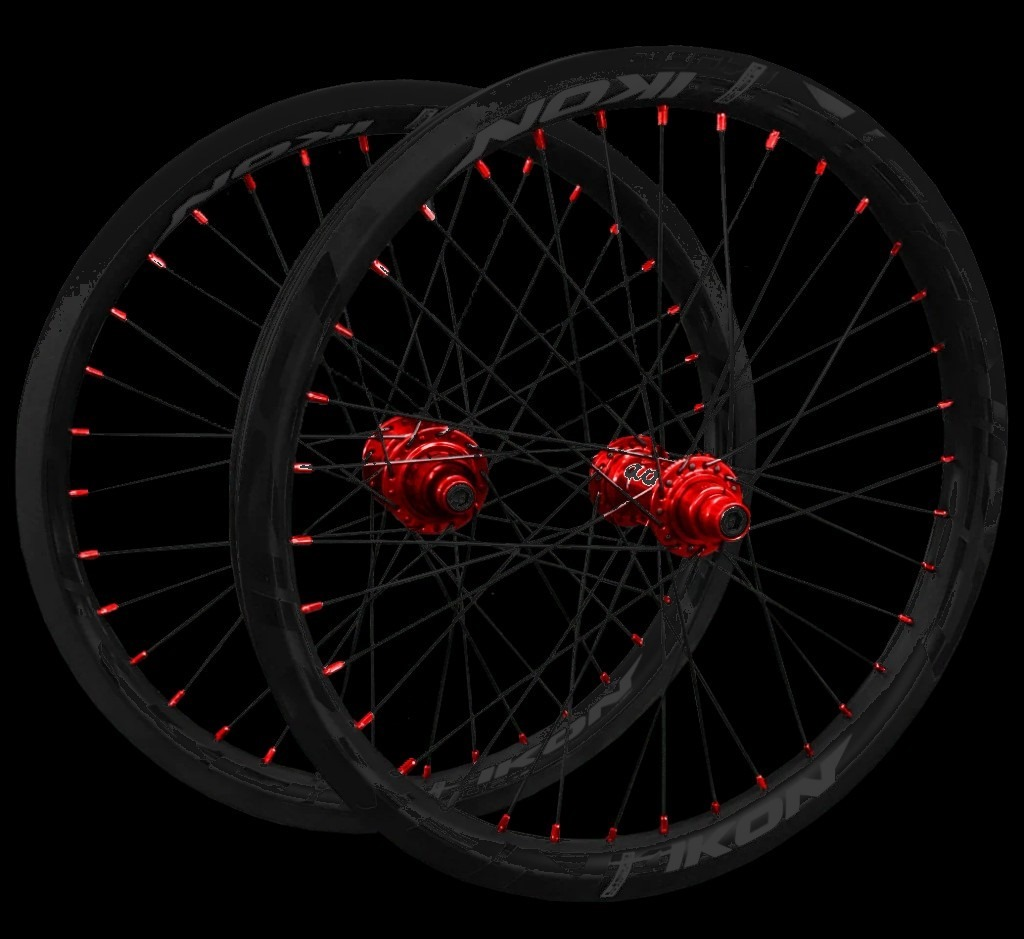
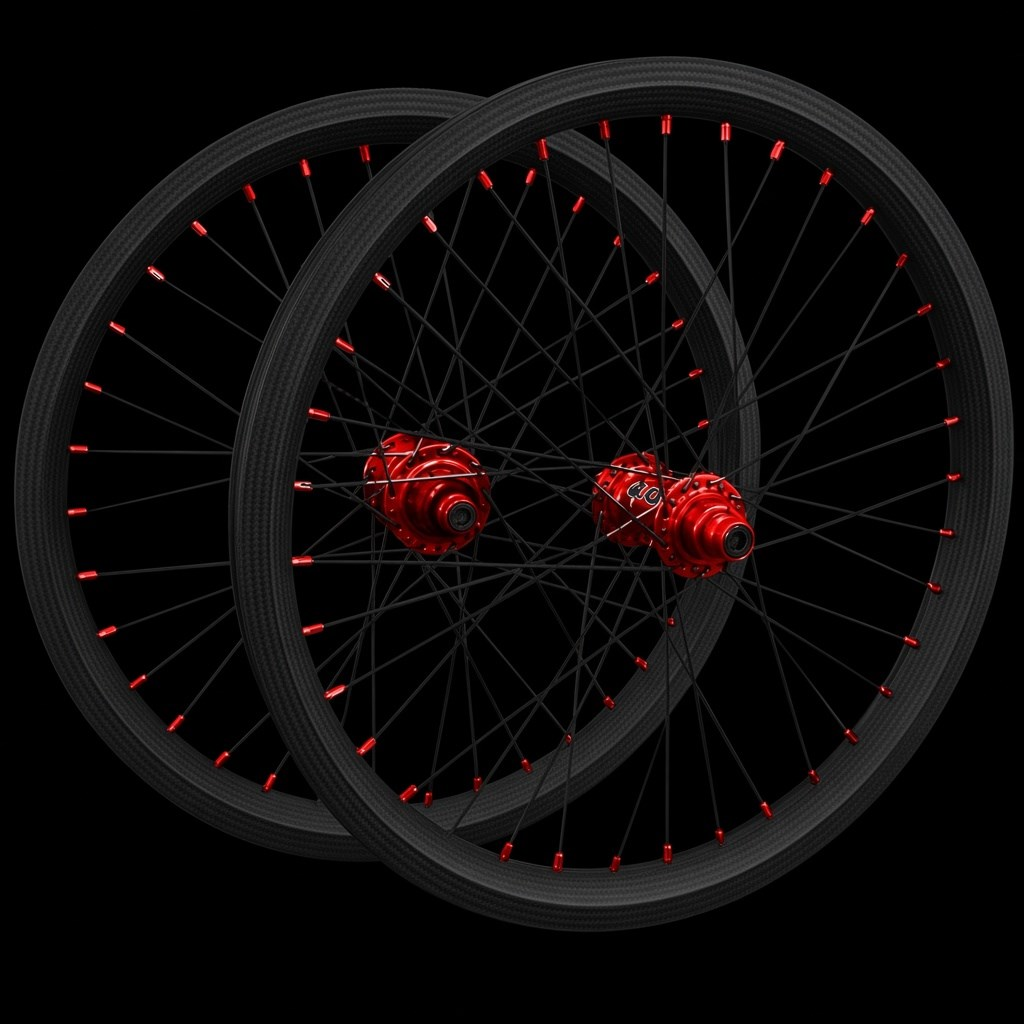
fix: retire la marque IKON du fond roues (besoins de Malo)

diff --git a/css/styles.css b/css/styles.css
@@ -2596,7 +2596,7 @@ a.partners-cr7__cell:focus-visible {
   content: "";
   position: absolute;
   inset: 0;
-  background: url("../assets/devenir-partenaire/bg-besoins-wheels.jpg?v=2") 50% 48% / contain no-repeat;
+  background: url("../assets/devenir-partenaire/bg-besoins-wheels.jpg?v=3") 50% 48% / contain no-repeat;
   opacity: 0.38;
 }
 

diff --git a/devenir-partenaire.html b/devenir-partenaire.html
@@ -19,7 +19,7 @@
       rel="stylesheet"
     />
     <link rel="preconnect" href="https://cdn.jsdelivr.net" crossorigin />
-    <link rel="stylesheet" href="css/styles.css?v=4" />
+    <link rel="stylesheet" href="css/styles.css?v=5" />
   </head>
   <body class="page-partner">
     <header class="site-header is-scrolled">
